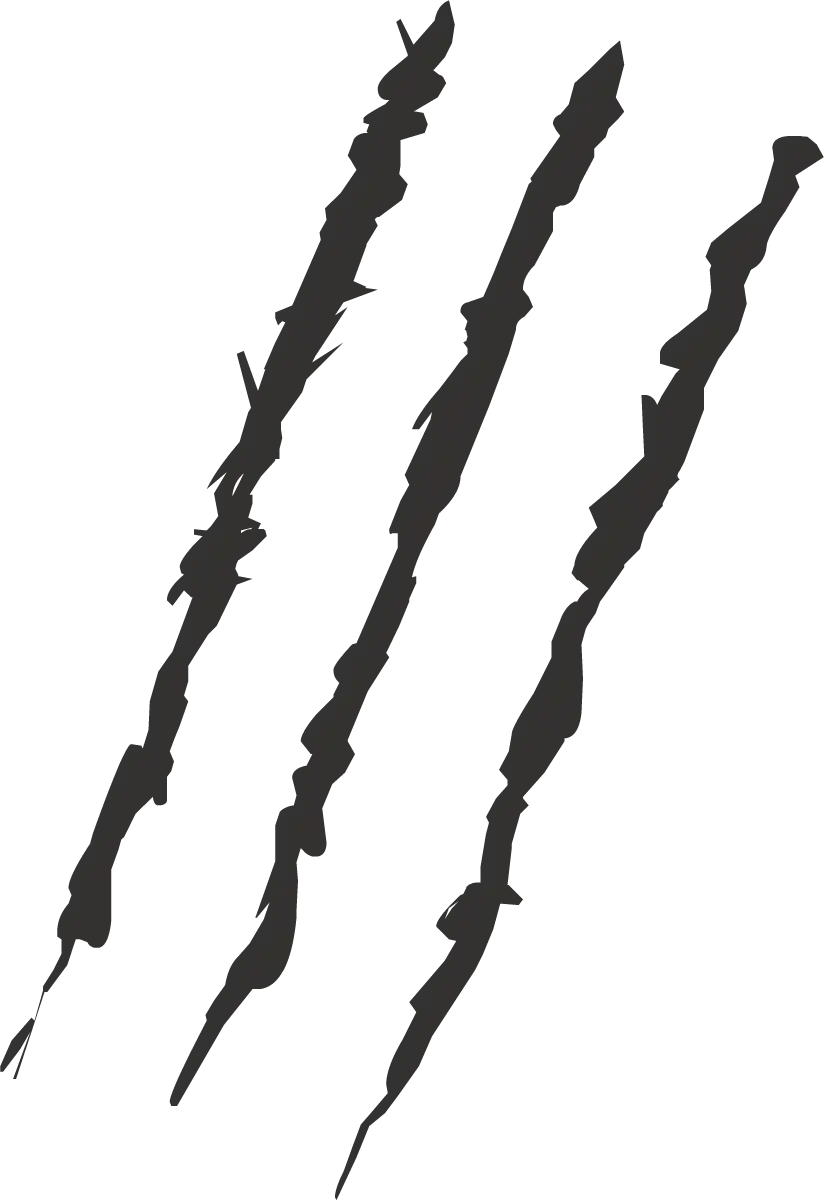
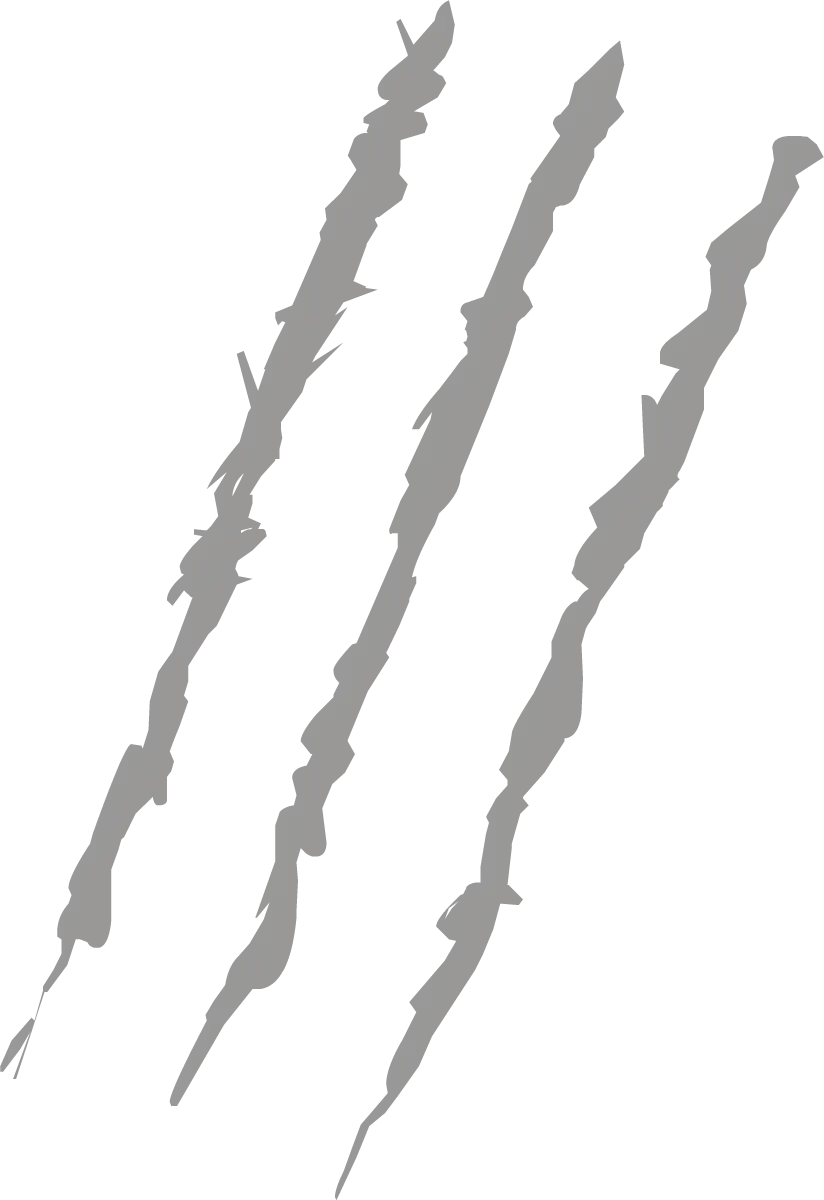
opacity 50% reduction

diff --git a/web/demodar/css/gallery.css b/web/demodar/css/gallery.css
@@ -44,6 +44,8 @@
     mix-blend-mode: multiply;
     background-color: #888671;
     opacity: .5;
+    transition: 0.5s ease-out;
+
 }
 
 
@@ -61,7 +63,17 @@
 }
 
 .gallery .slide:hover img {
-    filter: brightness(1.3);
+    filter: brightness(1.1);
+}
+.gallery .slide:hover .scratch-overlay {
+    opacity: .33;
+    filter: brightness(0.95);
+
+}
+@media all and (width <= 1000px){
+    .gallery .slide img {
+        filter: brightness(1.2);
+    }
 }
 
 .gallery .slide.is-previous {
